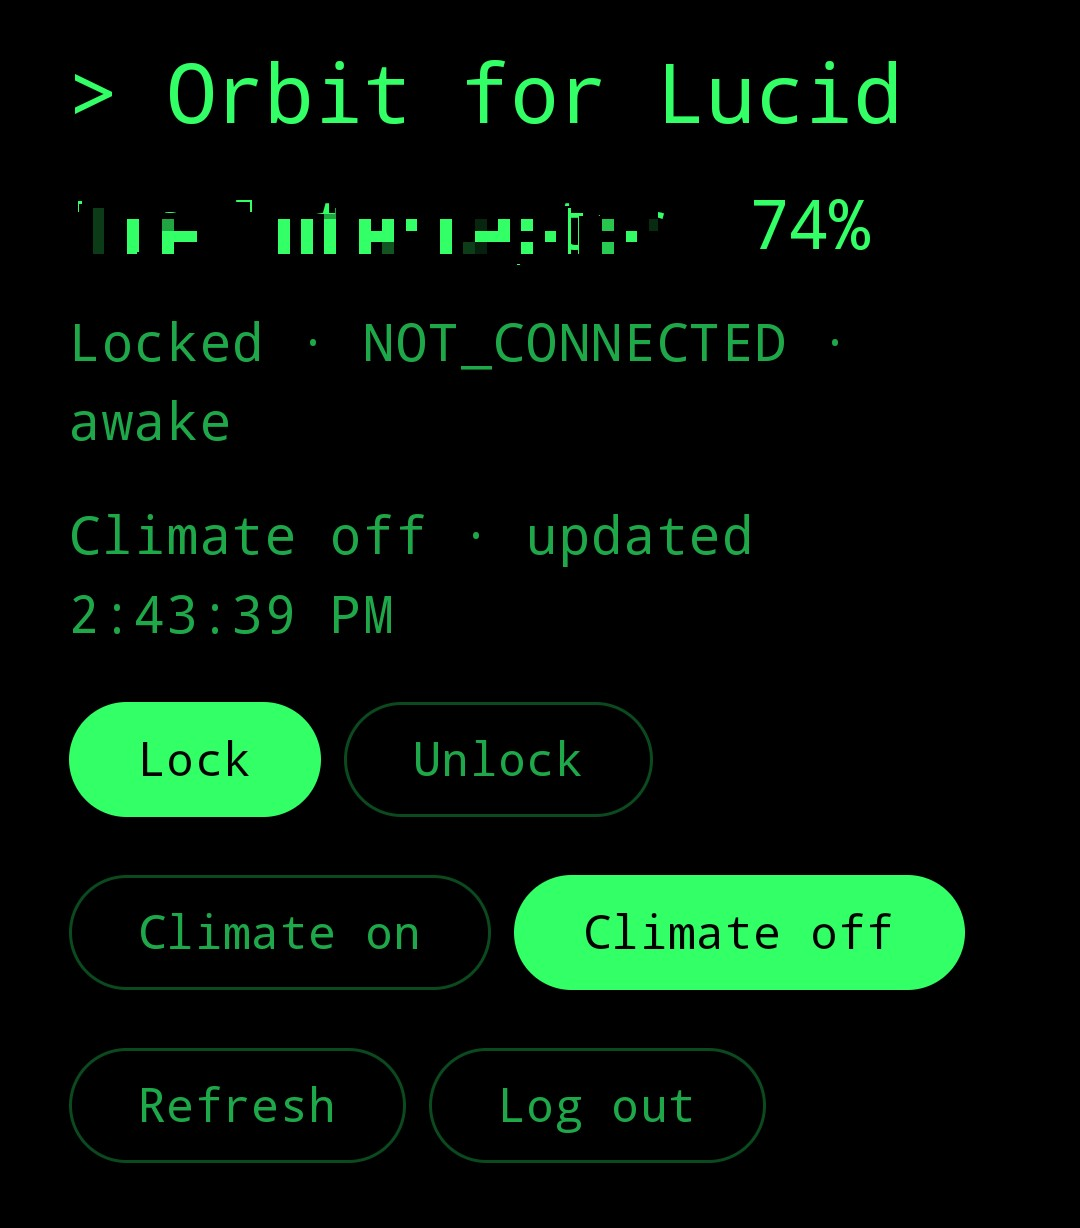
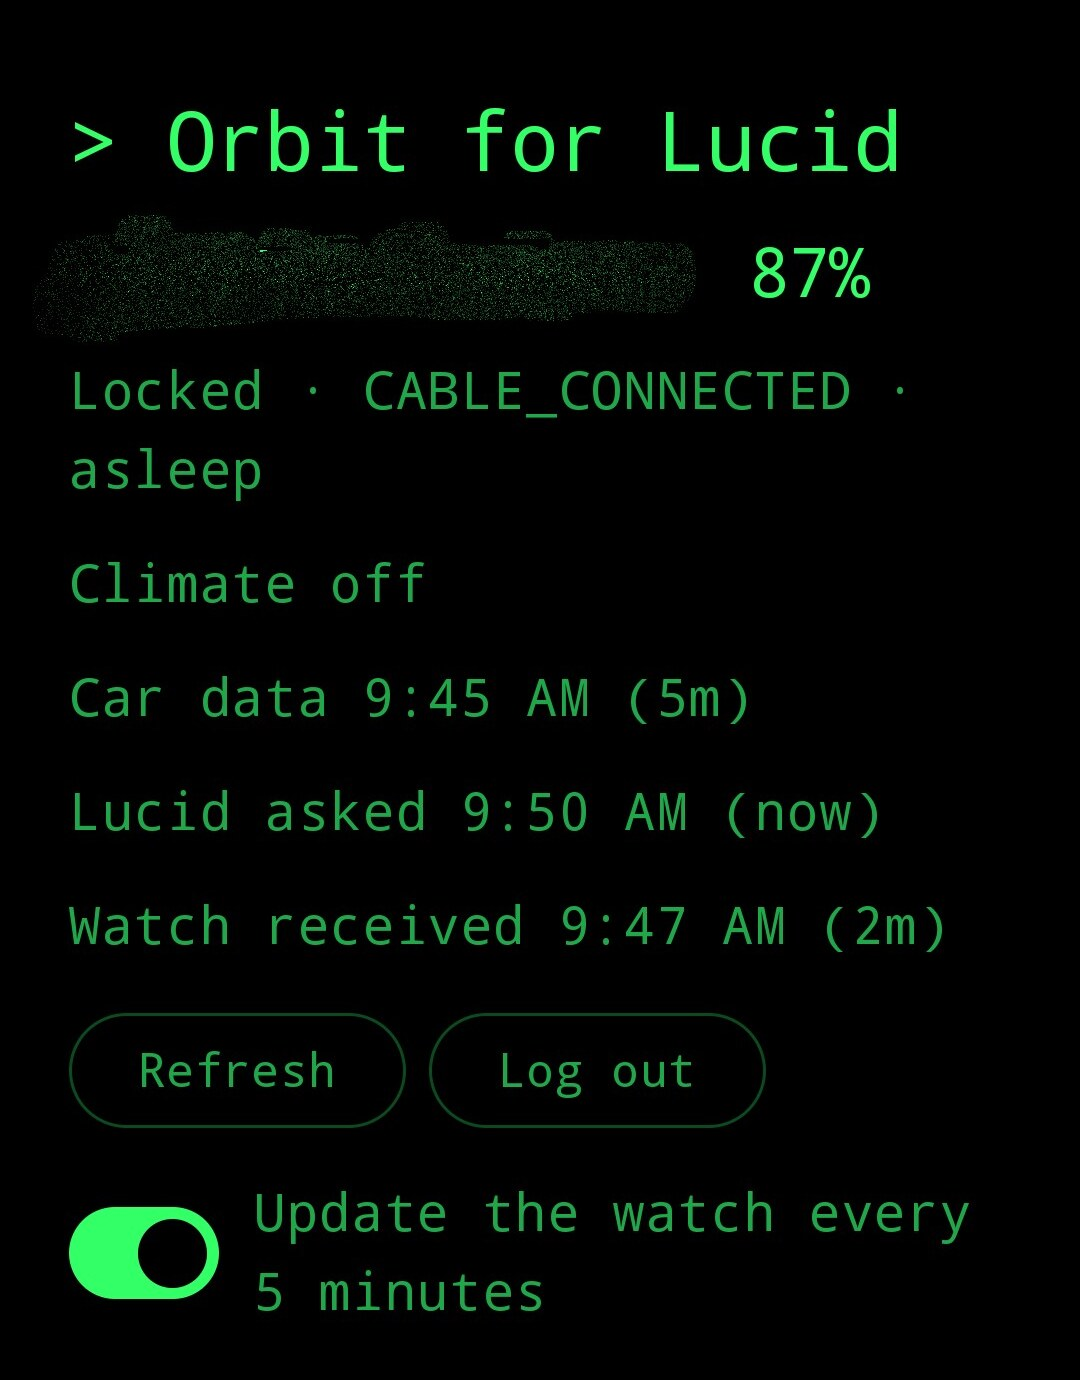
Phone: status and settings only, the car is controlled from the watch (#23)
Removes the Lock, Unlock, Climate on and Climate off buttons and StateButton. README caption, PLAN.md and the phone screenshot are updated.

diff --git a/android/app/src/main/java/io/github/doubletwist13/orbit/MainActivity.kt b/android/app/src/main/java/io/github/doubletwist13/orbit/MainActivity.kt
@@ -91,12 +91,6 @@ private fun Login(busy: Boolean, onLogin: (String, String) -> Unit) {
     }
 }
 
-/** Filled = the car is in this state now; outlined = tap to switch to it. */
-@Composable
-private fun StateButton(label: String, current: Boolean, enabled: Boolean, onClick: () -> Unit) =
-    if (current) Button(onClick, enabled = enabled) { Text(label) }
-    else OutlinedButton(onClick, enabled = enabled) { Text(label) }
-
 @Composable
 private fun Status(s: UiState, vm: Controller) {
     val v = s.status
@@ -120,15 +114,6 @@ private fun Status(s: UiState, vm: Controller) {
         Text("Car data ${at(v.updatedMs)}", color = dim)
         Text("Lucid asked ${at(v.fetchedMs)}", color = dim)
         s.pushAtMs?.let { Text("Watch ${if (s.pushOk) "received" else "send failed"} ${at(it)}", color = dim) }
-    }
-    val act = idle && v != null
-    Row(horizontalArrangement = Arrangement.spacedBy(8.dp)) {
-        StateButton("Lock", v?.locked == true, act) { vm.setLocked(true) }
-        StateButton("Unlock", v?.locked == false, act) { vm.setLocked(false) }
-    }
-    Row(horizontalArrangement = Arrangement.spacedBy(8.dp)) {
-        StateButton("Climate on", v?.hvacOn == true, act) { vm.setPrecondition(true) }
-        StateButton("Climate off", v?.hvacOn == false, act) { vm.setPrecondition(false) }
     }
     Row(horizontalArrangement = Arrangement.spacedBy(8.dp)) {
         OutlinedButton(vm::refresh, enabled = idle) { Text("Refresh") }

diff --git a/PLAN.md b/PLAN.md
@@ -204,9 +204,9 @@ Watch:
 2. **Repo bootstrap** (DONE): monorepo, LICENSE/NOTICE, `.gitignore`, gitleaks hook, SECURITY.md, disclaimers,
    `docs/protocol.md`, `.github/workflows/gitleaks.yml`.
 3. **Android client** (DONE 2026-10-24): protoc codegen, OkHttp gRPC transport (content-length fix), Keystore token
-   store, login screen, status + lock/unlock/climate buttons in a green-terminal theme, unit tests with a fake
-   transport. Open: persist "pending command" state across app restarts, a configurable climate temperature,
-   release-build (R8) check.
+   store, login screen, status in a green-terminal theme, unit tests with a fake transport. It first had
+   lock/unlock/climate buttons; they were removed in 0.2.3 (#23) so the phone app is a status and settings screen and
+   the watch is the only controller. Open: release-build (R8) check.
 4. **Watch app** (Venu 3 first; spike and UI DONE 2026-10-25; the glance shows cached SOC and lock state, kept
    fresh by the phone's pushes, with no age or dimming (a glance is not redrawn between pushes, so an age goes
    stale); the fenix 7 buttons were checked in the simulator; lock deliberately has no confirm tap; unlock and

diff --git a/README.md b/README.md
@@ -70,11 +70,13 @@ slower, and don't read the difference between those two runs as meaningful.
   <img src="docs/images/watch-climate.png" alt="Choose climate off or on, with the car's set point" width="200">
 </p>
 <p>
-  <img src="docs/images/phone.jpg" alt="The Orbit Android app with lock, unlock, climate and refresh buttons" width="260">
+  <img src="docs/images/phone.jpg" width="260"
+       alt="The Orbit Android app: car status, refresh, log out and the watch update switch">
 </p>
 
-Top: the watch app on a Venu 3 (glance, main screen, actions, info, lock or unlock, climate off or on). Bottom: the phone
-app. The car's nickname is blurred out in the phone screenshot.
+Top: the watch app on a Venu 3 (glance, main screen, actions, info, lock or unlock, climate off or on). Bottom: the
+phone app, which shows status and settings only; the car is controlled from the watch. The car's nickname is blurred
+out in the phone screenshot.
 
 ## Limitations
 
